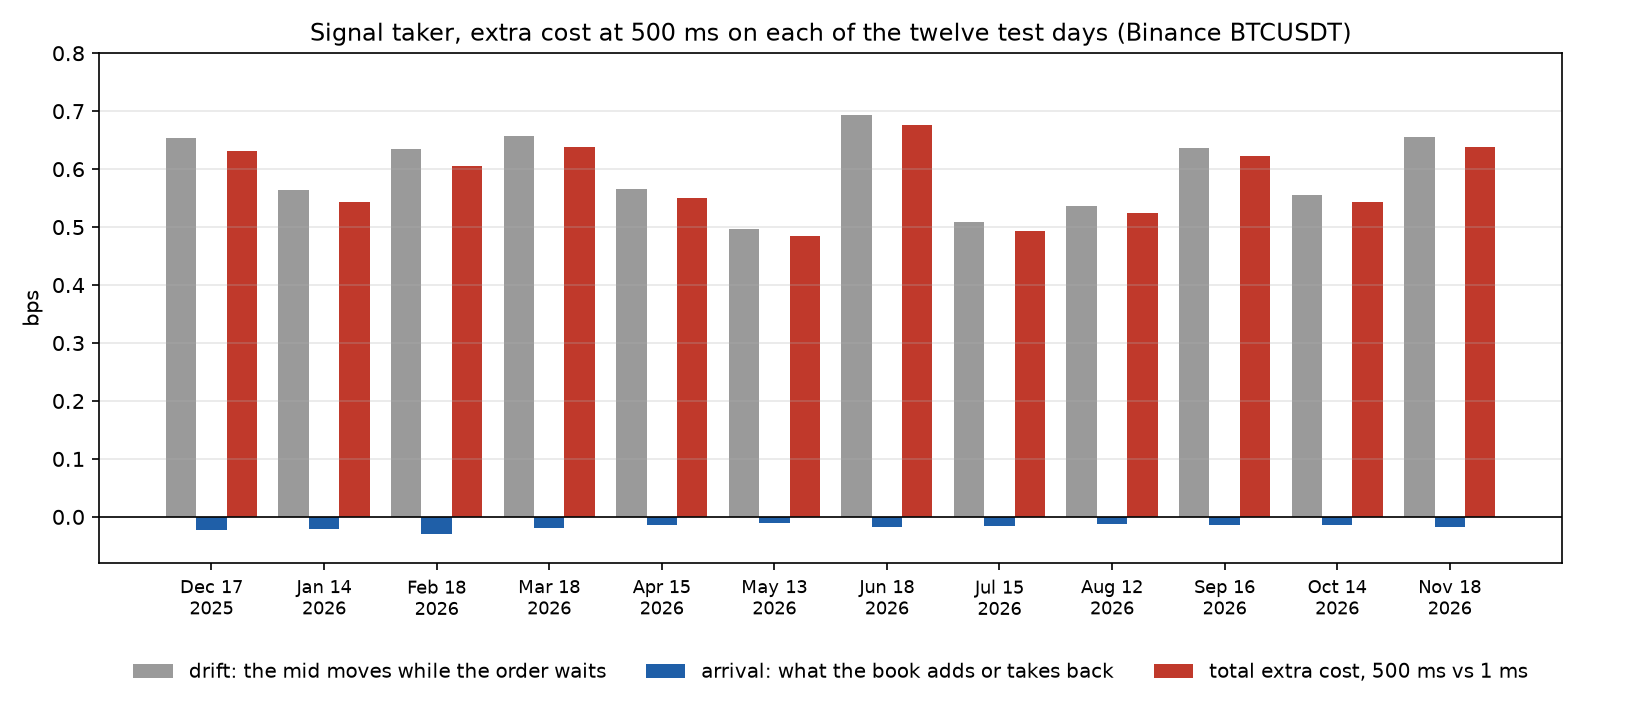
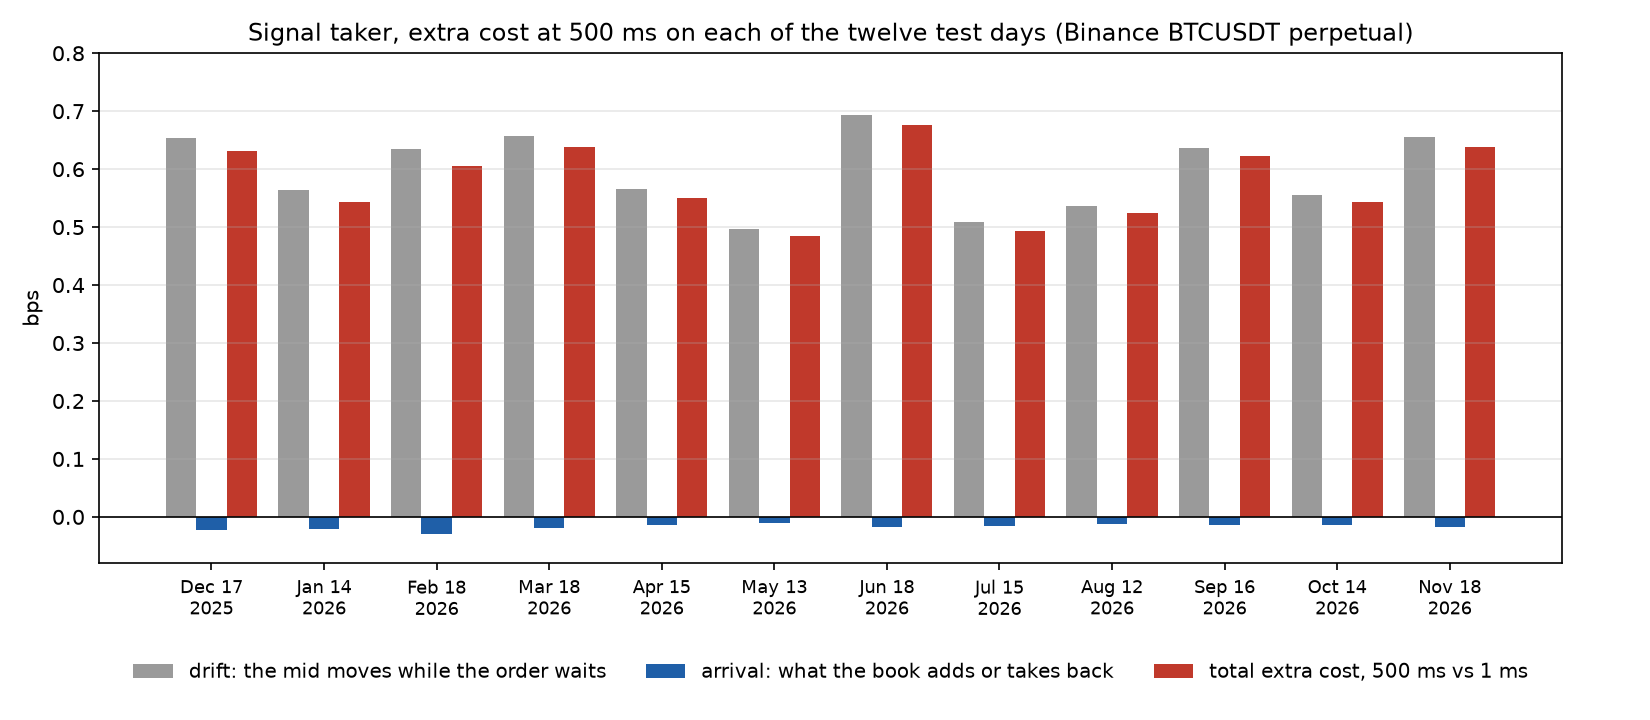
Reader 01.b: Proposals Lab check fixes (perpetual label, June test day, secondary days, slope interval)

Changed region(s): [[0.1545, 0.0306, 0.8655, 0.0611]]

diff --git a/writing/01-signal-to-fill.html b/writing/01-signal-to-fill.html
@@ -139,13 +139,13 @@ body.lb-open { overflow: hidden; }
     <h3>Signal Cost Confirm</h3>
     <p>Two things in 01 looked real but weren&rsquo;t its main tests. A taker acting on top of book imbalance paid more the longer its order took to reach the book, and a fixed price passive order looked costlier with delay once the orders marketable on arrival were left out. 01.b checked both once, on twelve days I hadn&rsquo;t seen, with the rules written first.</p>
     <dl class="tldr">
-      <dt>Hypothesis</dt><dd>A taker acting on an extreme imbalance signal pays more the longer its order takes (C1), and among the fixed price passive orders kept, cost is higher at longer delays (C2).</dd>
-      <dt>Test setup</dt><dd>Rules preregistered, then twelve unseen CryptoStruct BTCUSDT days, the Wednesday closest to the 15th from December 2025 to November 2026, each run once. Forty secondary days on Tardis, ETHUSDT and Bybit sit outside the verdict.</dd>
-      <dt>Verdict</dt><dd>Supported for both. C1&rsquo;s slope is above zero on all 12 days, an extra 0.48 to 0.68 bps by 500 ms. C2 holds but is small, and weakest under the back queue rule, where 11 of 12 days are above zero.</dd>
+      <dt>Hypothesis</dt><dd>A taker acting on an extreme imbalance signal pays more the longer its order takes (C1), and among the fixed price passive orders kept, with the ones marketable on arrival left out, cost is higher at longer delays (C2).</dd>
+      <dt>Test setup</dt><dd>Rules preregistered, then twelve unseen CryptoStruct days of Binance BTCUSDT perpetual data, the Wednesday closest to the 15th of each month from December 2025 to November 2026 (June moved to Thursday the 18th after a data notice on the Wednesday), each run once. Forty secondary days (four more CryptoStruct days, Tardis BTCUSDT and ETHUSDT, and Bybit) sit outside the verdict.</dd>
+      <dt>Verdict</dt><dd>Supported for both. C1&rsquo;s slope interval is above zero on all 12 days, an extra 0.48 to 0.68 bps by 500 ms. C2 holds but is small, and weakest under the back queue rule, where 11 of 12 days are above zero.</dd>
       <div class="stamp"><a href="https://github.com/sohanHajra/Proposals/commit/b81f5f6" target="_blank" rel="noopener">Preregistered Nov 22, 2026 ↗<span class="visually-hidden"> (opens in a new tab)</span></a> · before any test day was downloaded</div>
     </dl>
-    <figure class="fig"><img src="img/01b-fig1-cost-split.png" alt="Extra taker cost at 500 ms on each of the twelve test days, between about 0.48 and 0.68 bps. On every day the drift bar is slightly taller than the total and the arrival bar is a small negative." width="1650" height="720" loading="lazy"><figcaption>Each test day&rsquo;s extra cost at 500 ms, split in two. Drift is larger than the whole cost on all 12 days; the book at arrival takes a hair back.</figcaption></figure>
-    <p>So the cost 01 hinted at shows up on every one of twelve unseen days. It isn&rsquo;t the book getting worse. It&rsquo;s the move the signal predicted happening while the order waits. C2 is real on these days but tiny, 0.021 to 0.090 bps from 1 ms to 500 ms under the front rule, next to fees of 2 and 5 bps, and it describes the orders kept rather than a causal effect of delay.</p>
+    <figure class="fig"><img src="img/01b-fig1-cost-split.png" alt="Extra taker cost at 500 ms on each of the twelve test days, between about 0.48 and 0.68 bps. On every day the drift bar is slightly taller than the total and the arrival bar is a small negative." width="1650" height="720" loading="lazy"><figcaption>Each test day&rsquo;s extra cost at 500 ms, split in two. Drift is larger than the whole cost on all 12 days. The book at arrival takes a hair back.</figcaption></figure>
+    <p>So the cost 01 hinted at shows up on every one of twelve unseen days. It isn&rsquo;t the book getting worse. It&rsquo;s the move the signal predicted happening while the order waits. C2 holds on these days but is tiny, 0.021 to 0.090 bps from 1 ms to 500 ms under the front rule, next to fees of 2 and 5 bps, and it describes the orders kept rather than a causal effect of delay.</p>
     <p>Limits: one venue, one symbol and one day a month for a year, and my replay still has no real race for the touch.</p>
     <div class="sq-links"><a href="https://github.com/sohanHajra/Proposals/blob/main/01b-signal-cost-confirm/README.md" target="_blank" rel="noopener">Write-up<span class="ext" aria-hidden="true">↗</span><span class="visually-hidden"> (opens in a new tab)</span></a><a href="https://github.com/sohanHajra/Proposals/blob/main/01b-signal-cost-confirm/PREREGISTRATION.md" target="_blank" rel="noopener">Preregistration<span class="ext" aria-hidden="true">↗</span><span class="visually-hidden"> (opens in a new tab)</span></a><a href="https://github.com/sohanHajra/Proposals/blob/main/01b-signal-cost-confirm/LAB_NOTEBOOK.md" target="_blank" rel="noopener">Lab notebook<span class="ext" aria-hidden="true">↗</span><span class="visually-hidden"> (opens in a new tab)</span></a><a href="https://github.com/sohanHajra/Proposals/tree/main/01b-signal-cost-confirm" target="_blank" rel="noopener">Code<span class="ext" aria-hidden="true">↗</span><span class="visually-hidden"> (opens in a new tab)</span></a></div>
   </section>
